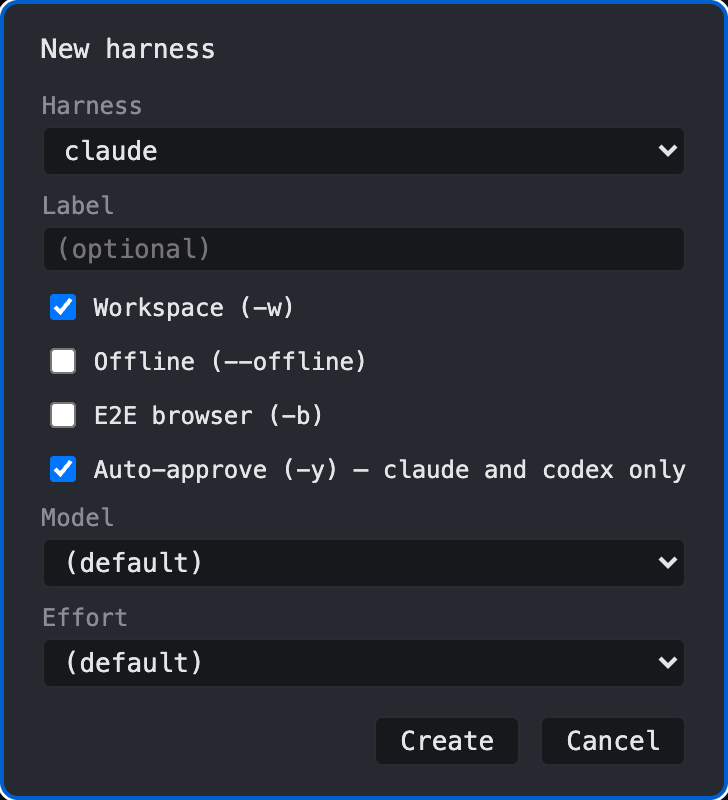
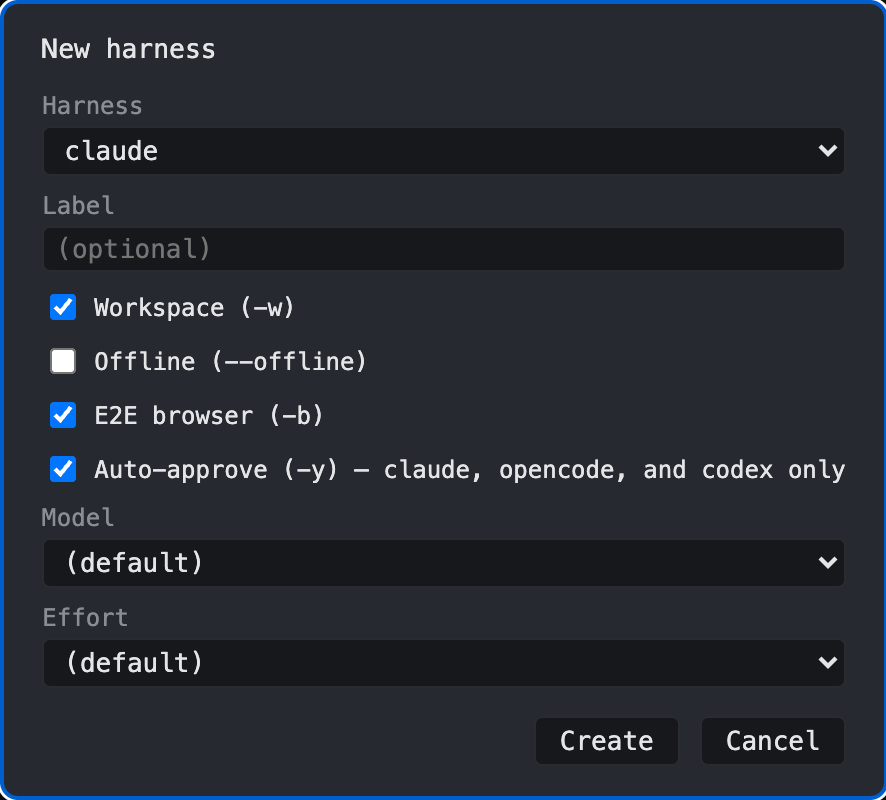
docs(harness): refresh launch dialog screenshot for opencode auto-approve
The New harness dialog's Auto-approve label now lists claude, opencode, and codex. Regenerated the screenshot with the docs-screenshots script driving the workspace's attached E2E browser, and recorded the follow-up in the completed plan.

diff --git a/product/plans/complete/opencode-auto-approve.md b/product/plans/complete/opencode-auto-approve.md
@@ -58,5 +58,8 @@ Auto-approve opencode's permission prompt the same way claude and codex prompts 
 - Selecting opencode's `Allow always` option or launching opencode with a global allow-all permission config.
 - Answering opencode's `Always allow` confirmation stage or `Reject` feedback input.
 - Removing the generic unsupported-harness guards or the dialog's auto-approve capability list.
-- Regenerating the launch-dialog documentation screenshot (needs Playwright Chromium, unavailable in the workspace); the label change is data-driven and shows at next regeneration.
+
+## Follow-up
+
+- The launch-dialog documentation screenshot was regenerated in a follow-up change through `./scripts/run.mjs docs-screenshots harness-launch-dialog`, driving the workspace's attached E2E browser, so it shows the "claude, opencode, and codex only" label.
 - Changing opencode's busy/ready classifier.
